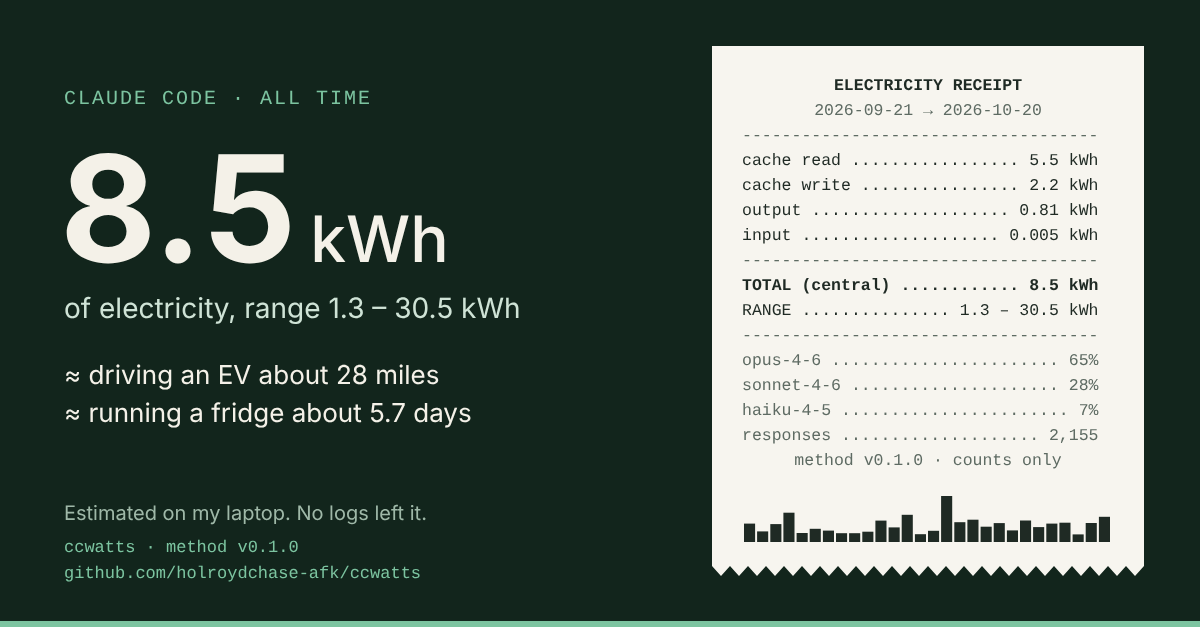
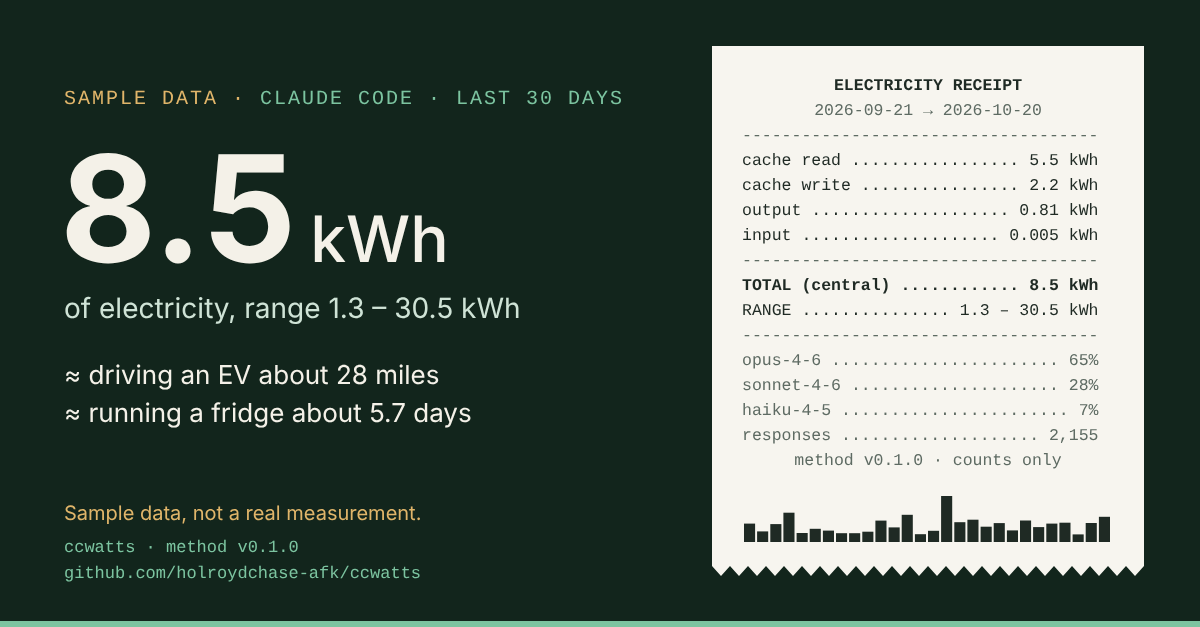
Round 2 fixes: lede follows the data, honest post wording, kWh ranges, labeled sample card image (RR-15 to RR-19)
Claude-Session: https://claude.ai/code/session_01NWXstrGvGc4FjskV2YNK3m

diff --git a/packages/web/src/app.ts b/packages/web/src/app.ts
@@ -76,7 +76,7 @@ function renderHero(e: Estimate, label: string) {
   $("hero-eyebrow").textContent = `Claude Code electricity · ${label}`;
   $("hero-big").innerHTML = e.responses ? `${esc(value ?? "")}<small>${esc(unit ?? "")}</small>` : "–";
   $("hero-range").textContent = e.responses ? `Plausible range ${t.range} ${t.unit}, from the bounds on every assumption.` : "No usage in this window.";
-  $("hero-compare").textContent = e.responses ? `About the same as ${everyday(e.total.central / 1000, params).replace(" · ", ", or ")}.` : "";
+  $("hero-compare").textContent = e.responses ? `That's like ${everyday(e.total.central / 1000, params).replace(" · ", ", or ")}.` : "";
   const span = e.span ? ` · ${e.span.from} to ${e.span.to}` : "";
   const tokens = TOKEN_TYPES.reduce((s, k) => s + e.tokens[k], 0);
   $("hero-meta").textContent = `${int(e.responses)} responses · ${int(tokens)} tokens${span} · method v${params.version}`;
@@ -206,7 +206,7 @@ function sourceName(url: string): string {
 }
 
 function renderMethod() {
-  $("method-intro").textContent = `Energy = tokens × energy per token, by model family and token type. Each parameter below has a low and high bound, and they combine into the range you see. The boundary is ${params.boundary}. Method v${params.version}, parameters as of ${params.as_of}, licensed ${params.license}.`;
+  $("method-intro").textContent = `Energy = tokens × energy per token, by model family and token type. Each parameter below has a low and high bound, and they combine into the range you see. The boundary is ${params.boundary}. Labels say how solid each number is: MODELED is derived from published figures, GUESS is a best estimate with wide bounds. Method v${params.version}, parameters as of ${params.as_of}, licensed ${params.license}.`;
   const rows = Object.entries(params.params)
     .map(
       ([id, p]) =>
@@ -215,6 +215,12 @@ function renderMethod() {
     .join("");
   $("params").innerHTML = `<thead><tr><th>Parameter</th><th>Value</th><th>Range</th><th>Unit</th><th>Label</th><th>Source</th></tr></thead><tbody>${rows}</tbody>`;
 }
+
+const LEDE: Record<typeof state.source, string> = {
+  sample: "ccwatts estimates the electricity behind Claude Code, an AI coding agent, from the token counts in its local logs. You're looking at sample data; try your own logs below.",
+  files: "ccwatts estimates the electricity behind Claude Code, an AI coding agent, from the token counts in its local logs. You're looking at the files you loaded; nothing was uploaded.",
+  history: "ccwatts estimates the electricity behind your Claude Code use from the token counts in its local logs, as a range with every assumption sourced.",
+};
 
 let lastEstimate: Estimate | null = null;
 
@@ -227,6 +233,7 @@ function render() {
   const pill = $("source-pill");
   pill.textContent = state.source === "sample" ? "Sample data" : state.source === "history" ? "Your history" : "Your files";
   pill.classList.toggle("sample", state.source === "sample");
+  $("lede").textContent = LEDE[state.source];
   renderHero(e, label);
   renderChart(e);
   renderRank("by-model", e.byModel, shortModel, e);
@@ -350,8 +357,6 @@ function wire() {
     const back = $<HTMLAnchorElement>("back-link");
     back.href = PORTFOLIO_URL;
     back.hidden = false;
-  } else {
-    $("lede").textContent = "ccwatts estimates the electricity behind your Claude Code use from the token counts in its local logs, as a range with every assumption sourced.";
   }
   const when = payload.generatedAt ? ` · written ${payload.generatedAt.slice(0, 16).replace("T", " ")} UTC` : "";
   $("footer-version").textContent = `${APP_NAME} v${APP_VERSION} · method v${params.version}${when}. Electricity only, not carbon or water.`;

diff --git a/packages/core/test/receipt.test.ts b/packages/core/test/receipt.test.ts
@@ -1,6 +1,6 @@
 import { readFileSync } from "node:fs";
 import { describe, expect, it } from "vitest";
-import { claudeCodeAdapter, defaultParams as params, estimate, linkedInPost, receiptSvg, shareLine } from "../src/index.js";
+import { claudeCodeAdapter, defaultParams as params, estimate, formatEnergy, linkedInPost, receiptSvg, shareLine } from "../src/index.js";
 
 const demo = readFileSync(new URL("../../../fixtures/claude-code/demo.jsonl", import.meta.url), "utf8");
 const input = { estimate: estimate(claudeCodeAdapter.parse(demo), params), params, windowLabel: "last 30 days" };
@@ -51,8 +51,25 @@ describe("receipt", () => {
 
     it("real data keeps its first-person wording", () => {
       expect(receiptSvg(input)).toContain("Estimated on my laptop.");
-      expect(linkedInPost(input).startsWith("I measured")).toBe(true);
+      expect(linkedInPost(input).startsWith("I estimated")).toBe(true);
       expect(receiptSvg(input)).not.toContain("SAMPLE DATA");
+    });
+  });
+
+  describe("round 2 (recruiter-ready RR-15, RR-17)", () => {
+    it("says estimated, not measured, and only calls a big cache share a surprise", () => {
+      const post = linkedInPost(input);
+      expect(post).not.toContain("I measured");
+      expect(post).toContain("The surprise:");
+      const small = { ...input, estimate: estimate(claudeCodeAdapter.parse(readFileSync(new URL("../../../fixtures/claude-code/sample.jsonl", import.meta.url), "utf8")), params) };
+      expect(linkedInPost(small)).not.toContain("The surprise:");
+    });
+
+    it("picks the range unit from the high bound so a row never reads 88.5 – 2,155 Wh", () => {
+      const t = formatEnergy({ low: 88.5, central: 618, high: 2155 });
+      expect(t.unit).toBe("kWh");
+      expect(t.range).toBe("0.09 – 2.2");
+      expect(formatEnergy({ low: 2.3, central: 9.1, high: 27.5 }).unit).toBe("Wh");
     });
   });
 });

diff --git a/packages/core/src/receipt.ts b/packages/core/src/receipt.ts
@@ -60,9 +60,9 @@ export function linkedInPost(input: ReceiptInput): string {
     ].join("\n");
   }
   return [
-    `I measured the electricity behind my AI coding. ${whose(windowLabel)}: about ${t.central} (range ${t.range} ${t.unit}), roughly ${everyday(e.total.central / 1000, params)}.`,
+    `I estimated the electricity behind my AI coding. ${whose(windowLabel)}: about ${t.central} (range ${t.range} ${t.unit}), roughly ${everyday(e.total.central / 1000, params)}.`,
     "",
-    `The surprise: ${cacheShare}% of it came from the agent re-reading context it had already seen.`,
+    `${cacheShare >= 50 ? "The surprise: " : ""}${cacheShare}% of it came from the agent re-reading context it had already seen.`,
     "",
     `It's a range because nobody outside the AI labs knows the real energy per token. Every assumption is sourced, and the tool runs entirely on my laptop, so no logs leave it.`,
     "",

diff --git a/packages/web/test/page.test.ts b/packages/web/test/page.test.ts
@@ -75,6 +75,13 @@ describe("accessibility (recruiter-ready RR-5, RR-6, RR-9, RR-12)", () => {
   });
 });
 
+describe("method labels explained (recruiter-ready RR-18)", () => {
+  it("says what MODELED and GUESS mean", () => {
+    expect(html).toContain("MODELED is derived from published figures");
+    expect(html).toContain("GUESS is a best estimate with wide bounds");
+  });
+});
+
 describe("injectData", () => {
   it("replaces the data slot and can't be broken out of", () => {
     const rows = rollup(claudeCodeAdapter.parse(readFileSync(new URL("../../../fixtures/claude-code/sample.jsonl", import.meta.url), "utf8")));

diff --git a/packages/core/src/format.ts b/packages/core/src/format.ts
@@ -20,9 +20,9 @@ export function num(n: number): string {
   return n === 0 ? "0" : n.toPrecision(1);
 }
 
-/** Picks Wh or kWh from the central value and uses it for the whole range. */
+/** Picks Wh or kWh from the high bound and uses it for the whole range, so no row reads "88.5 – 2,155 Wh". */
 export function formatEnergy(range: Range): { central: string; range: string; unit: string } {
-  const kwh = range.central >= 1000;
+  const kwh = range.high >= 1000;
   const scale = kwh ? 1000 : 1;
   const unit = kwh ? "kWh" : "Wh";
   return {

diff --git a/docs/reviews/2026-10-22-recruiter-ready.md b/docs/reviews/2026-10-22-recruiter-ready.md
@@ -35,7 +35,12 @@ Priority: P0 blocks showing it, P1 hurts the impression, P2 polish. Status is up
 | RR-12 | P2 | Buttons | Button borders are 1.23:1 against the page (light) and 1.5:1 (dark); WCAG 1.4.11 asks 3:1 for control boundaries. | A separate `--control` border token at ≥ 3:1. | Button border ≥ 3:1 in both themes. | fixed (#25) |
 | RR-13 | P2 | Pickers on a phone | "Choose folder" is the primary button on a phone, where no Claude Code logs live (iOS ignores folder picking). | On narrow screens, add "Your logs are on your computer, so open this page there." | Hint visible at 390, hidden at 1280. | fixed (#27) |
 | RR-14 | P2 | README screenshots | `dashboard.png` shows a "Your history" pill on synthetic data. The caption under the first image covers it, but the image alone reads as real. | Re-shoot the dashboard screenshot with the new header and the sample label. | README images match the current page and say sample. | fixed (#28) |
-| QA-1 | P2 | Tests | No automated check for keyboard reach, the back link or sample labeling. | Add with RR-1, RR-4, RR-5. | Tests exist and fail before the fix. | open |
+| RR-15 | P2 | LinkedIn post, real data | Post opened "I measured…" though the tool estimates, and called an 11% cache share "The surprise". (Round 2, measured.) | "I estimated…"; "The surprise:" only when the cache share is 50% or more. | Core tests. | fixed (#29) |
+| RR-16 | P1 | Lede after loading your own files | Pill said "Your files" but the lede still said "You're looking at sample data" (Nielsen 1, honest demo). (Round 2, measured.) | Lede set from the data source on every render. | `check:browser` asserts the lede after loading a file and after "Use sample data". | fixed (#29) |
+| RR-17 | P2 | By model, haiku row; hero comparison | "range 88.5 – 2,155 Wh" next to kWh rows; hero said "About the same as driving an EV about 28 miles". (Round 2, seen.) | Unit picked from the high bound ("0.09 – 2.2 kWh"); hero reads "That's like driving an EV about 28 miles, or…". | Core test on `formatEnergy`. | fixed (#29) |
+| RR-18 | P2 | Method table labels | MODELED and GUESS badges never explained; "GUESS" alone can read as weak (Nielsen 10). (Round 2, inferred; confirm with a real user.) | One sentence in the method intro explaining both. | Page test. | fixed (#29) |
+| RR-19 | P1 | README `receipt-sample.png` | Synthetic card still said "Estimated on my laptop. No logs left it." with no sample label, between two sample screenshots. (Round 2, seen.) | Re-rendered from the playground's sample card by new `scripts/make-readme-images.mjs`, which refuses to write a card without "SAMPLE DATA". | Script check; image re-shot. | fixed (#29) |
+| QA-1 | P2 | Tests | No automated check for keyboard reach, the back link or sample labeling. | Add with RR-1, RR-4, RR-5. | Tests exist and fail before the fix. | fixed (#23–#29) |
 | QA-2 | P2 | CI | `check:browser` (the only real-browser test) runs by hand, not in CI. | Decision for Chase (needs Playwright in CI). | Logged under Decisions to review. | decision |
 
 Not findings: zero network requests, zero console errors, no sideways page scroll at 390, bad inputs get clear messages ("Those files had no Claude Code usage in them.", "No .jsonl files found there…"), reload returns to sample data (nothing is stored, which is right for privacy). No TODO, placeholder, lorem or "coming soon" text in the page, README or docs.
@@ -59,3 +64,5 @@ INTAKE from ccwatts (Recruiter-Ready Sprint v2, 2026-10-22), for holroydchase-af
 
 ## Rounds
 - **Round 0 (review), 03:30–04:00Z:** 14 UX + 2 QA findings, 1 P0 in this repo, 1 P0 for the portfolio.
+- **Round 1 (fixes), 03:30–03:42Z:** RR-1, RR-3 to RR-14 and QA-1 fixed in stacked draft PRs #23 to #28, each with a failing test first. Suites 3× green after the round (59/59; `check:browser` 3× pass).
+- **Round 2 (re-review), 03:42–03:55Z:** a fresh ux-reviewer pass (showcase mode, 390/1280/320 px, light and dark, loaded state) confirmed every round-1 fix and found 5 new items (RR-15 to RR-19: 2 P1, 3 P2), all fixed in #29.

diff --git a/HANDOFF.md b/HANDOFF.md
@@ -35,6 +35,7 @@ _Updated 2026-10-21._
 - **Keep in sync:** when a change here alters what the portfolio page or demo shows (features, numbers, screenshots, privacy claims), tell the portfolio thread ("Portfolio research and upgrade plan") or update the page in `holroydchase-afk.github.io` (`tools/build.py`). Any portfolio change that touches this product adds a dated line here.
 
 ## Done
+- 2026-10-22: Round 2 (RR-15 to RR-19): lede follows the data source, post says "I estimated" and only calls a 50%+ cache share a surprise, ranges pick kWh from the high bound, method labels explained, and `docs/images/receipt-sample.png` is now the labeled sample card (new `scripts/make-readme-images.mjs` re-shoots all three README playground images).
 - 2026-10-22: RR-7, RR-14: README links the live playground in its second paragraph, says `npx ccwatts` works once it's on npm, and its screenshots are the current playground on sample data (`docs/images/playground-laptop.png` replaces `dashboard.png`; `playground-phone.png` re-shot). `packages/web/test/readme.test.ts` guards all three.
 - 2026-10-22: RR-10, RR-11, RR-13: method-table source links name their site (e.g. theclimatebrink.com) and are 44px tall; under 600px the table becomes one card per parameter (no sideways scroll); phones see "On a phone? Claude Code keeps its logs on your computer…" under the pickers. All three are in `check:browser`.
 - 2026-10-22: RR-8: the daily chart is drawn at its on-screen width (320 to 720 px) and redrawn on resize, so axis labels are 13px tall on a 390px phone instead of 7px. `check:browser` fails if they drop under 11px.
@@ -68,7 +69,7 @@ All of M1.1 to M1.8 (old S1 to S7 plus the README; PRs #1, #3 to #10) and the Pa
 - Recruiter-Ready Sprint v2 (Oct 22): review doc `docs/reviews/2026-10-22-recruiter-ready.md`, fix PRs stacked on `claude/project-thread-ofwrnk*`.
 
 ## Exact next step
-- Recruiter-ready fix loop: full re-review round of the playground on the top branch (`claude/project-thread-ofwrnk-readme`): re-screenshot, ux-reviewer showcase pass, suites 3x; log new rows in the review doc.
+- Recruiter-ready fix loop: round 3 re-review of the top branch (`claude/project-thread-ofwrnk-round2`); if it finds nothing at P2+, the loop is done and only the portfolio INTAKE (RR-2) and QA-2 decision remain.
 - M2.1, Chase: run on real logs (`npm install && npm run build && node packages/cli/dist/index.js` on main) to confirm totals and `cleanupPeriodDays`.
 - M1.9 playground hosting (PR #12): live at chaseholroyd.com/ccwatts/ since Oct 21 (Pages deploys from `main` succeed).
 - Waiting on Chase (from the Atlas intake, logged in IDEAS.md): approve storing output × context, opt-in carbon or kWh-only, what "metric data" meant for the bench idea.
